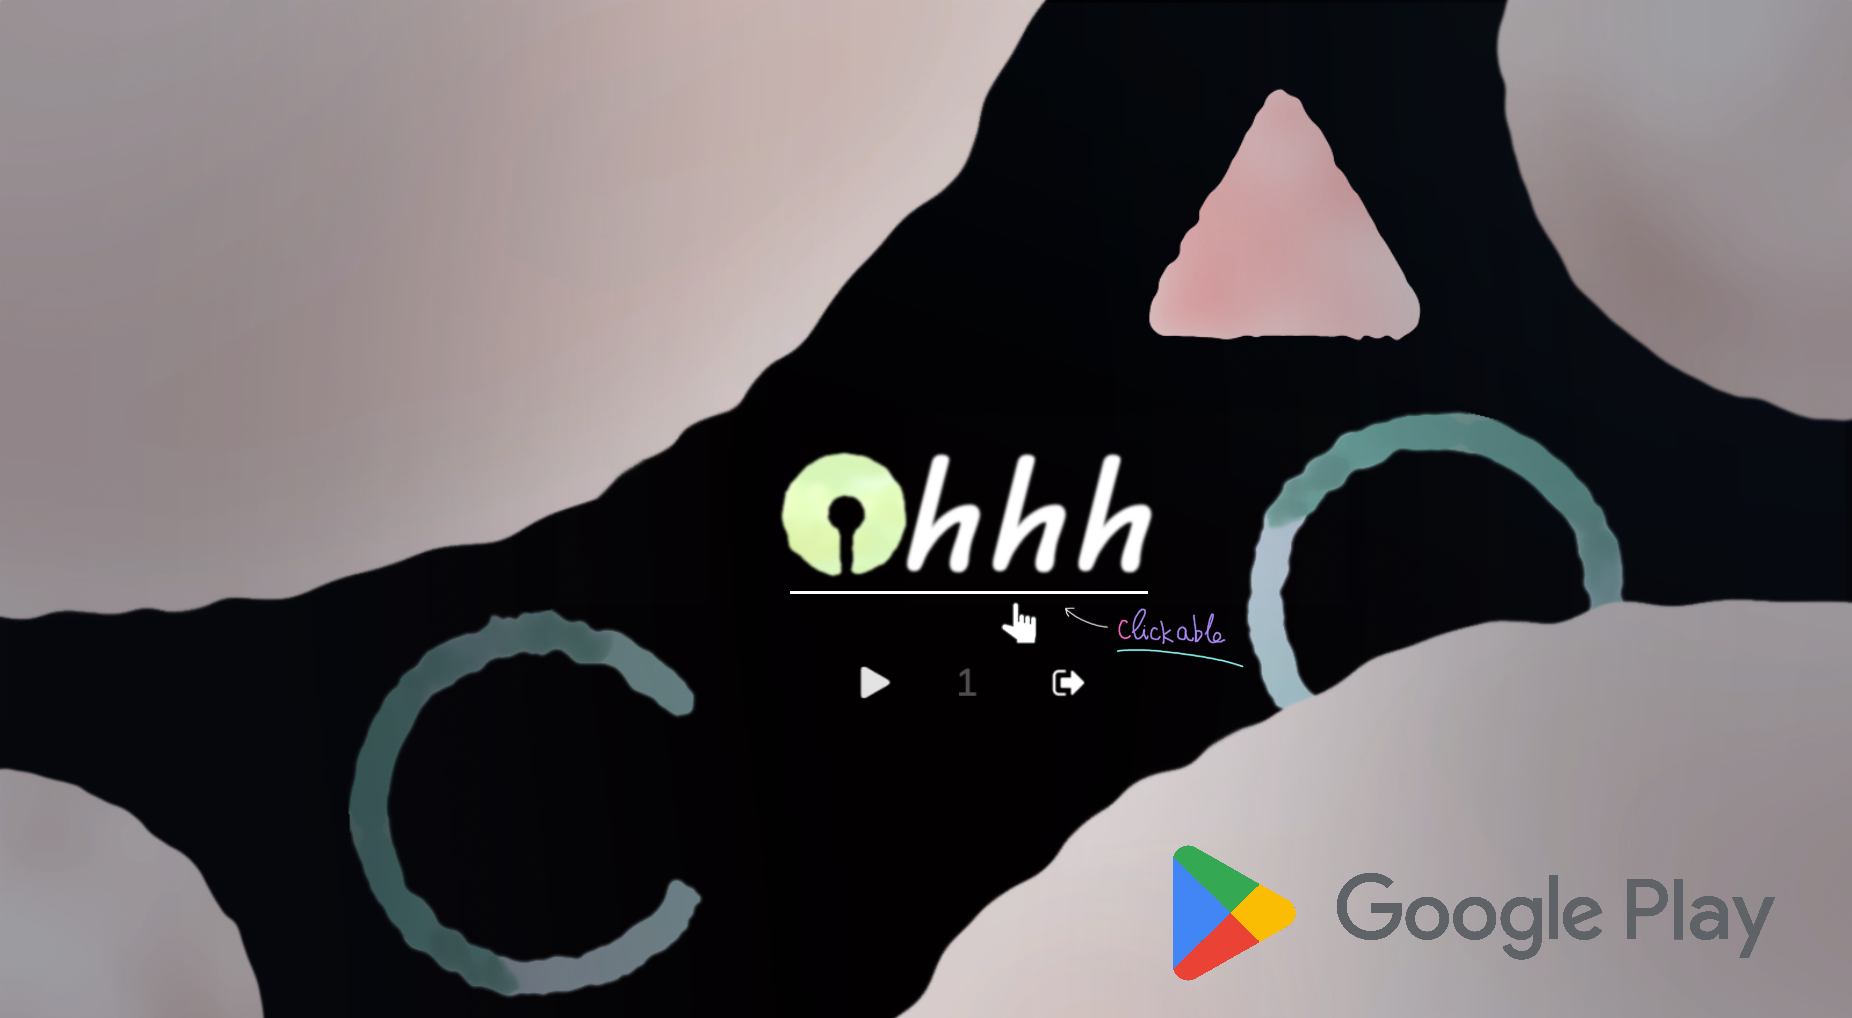
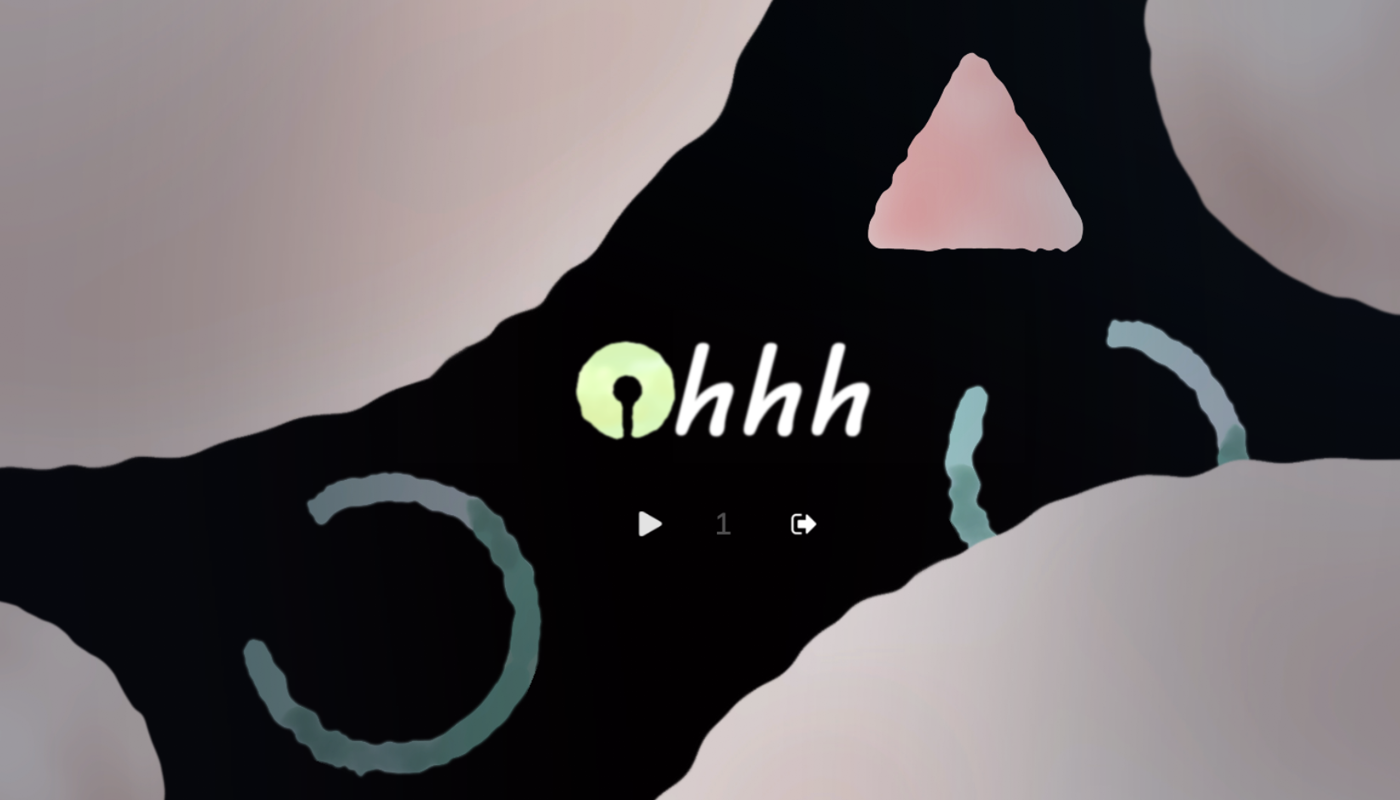
projects & demos page done

diff --git a/source/projects_n_demos/contents.js b/source/projects_n_demos/contents.js
@@ -19,6 +19,13 @@ module.use({
     gdr: "text/projects_n_demos/gdr",
     cook_torrance: "text/projects_n_demos/cook_torrance",
 
+    foot_placement: "text/projects_n_demos/foot_placement",
+    distance_matching: "text/projects_n_demos/distance_matching",
+
+    ohhh: "text/projects_n_demos/ohhh",
+    ohhh2: "text/projects_n_demos/ohhh2",
+    bhop: "text/projects_n_demos/bhop",
+
 });
 
 
@@ -372,6 +379,262 @@ return [
             ),
 
         ),
+
+    ),
+
+
+
+    // AA
+    Common.PageContent()
+    .appendClass("item-center")
+    .appendClass("aa-content")
+    .appendInner(
+
+        Common.Section(
+            [ "| ", "ADVANCED ", "ANIMATION", " |" ],
+        )    
+        .appendClass("item-left")
+        .useLargeWidth()
+        .$(
+            ".paragraph-name",
+            e => e
+            .appendClass("item-left")
+            
+            .applyEffect(
+                Common.TypingEffect('1px', 500, false, false), 
+                10
+            ),
+
+        )
+        .$$(
+            ".paragraph-name > span:nth-child(1), .paragraph-name > span:nth-child(3), .paragraph-name > span:nth-child(4)",
+            e => e
+            .setStyle({
+
+                color: "rgb(100, 100, 100)",
+                fontWeight: "200",
+
+            })
+
+        )
+        .$(
+            ".paragraph-name > span:nth-child(2)",
+            e => e
+            .setStyle({
+
+                color: "rgb(90, 200, 230)",
+                fontWeight: "200",
+
+            })
+
+        )
+        .$(
+            ".paragraph-name > span:nth-child(3)",
+            e => e
+            .setStyle({
+
+                color: "rgb(120, 200, 180)",
+                fontWeight: "200",
+
+            })
+
+        ),
+
+        Common.HR(),
+
+        Common.SubPageContent()
+        .appendInner(
+
+            Common.SubPageContent()
+            .appendClass("two-content-body-reverse")
+            .appendInner(
+    
+                Common.ImageBody(
+                    `${window.origin}/resources/image/demonstrates/foot_placement.png`,
+                    "https://www.youtube.com/watch?v=0jOpu6XEZ58"
+                )
+                .applyEffect(
+                    Common.LightingOnVisible(),
+                    50,
+                ),
+    
+                Common.EnhancedTextBody(
+                    foot_placement
+                )
+                .appendClass("item-left")
+                .applyEffect(
+                    Common.LightingOnVisible(),
+                    50,
+                ),
+    
+            ),
+
+            Common.HR(),
+
+            Common.SubPageContent()
+            .appendClass("two-content-body")
+            .appendInner(
+    
+                Common.EnhancedTextBody(
+                    distance_matching
+                )
+                .appendClass("item-left")
+                .applyEffect(
+                    Common.LightingOnVisible(),
+                    50,
+                ),
+    
+                Common.ImageBody(
+                    `${window.origin}/resources/image/demonstrates/distance_matching.png`,
+                    "https://www.youtube.com/watch?v=FbWhEf3iBuk"
+                )
+                .applyEffect(
+                    Common.LightingOnVisible(),
+                    50,
+                ),
+    
+            ),
+
+        ),
+
+    ),
+
+
+
+    // Games & Demos
+    Common.PageContent()
+    .appendClass("item-center")
+    .appendClass("games-demos-content")
+    .appendInner(
+
+        Common.Section(
+            [ "| ", "GAMES ", "& ", "DEMOS", " |" ],
+        )    
+        .appendClass("item-left")
+        .useLargeWidth()
+        .$(
+            ".paragraph-name",
+            e => e
+            .appendClass("item-left")
+            
+            .applyEffect(
+                Common.TypingEffect('1px', 500, false, false), 
+                10
+            ),
+
+        )
+        .$$(
+            ".paragraph-name > span:nth-child(1), .paragraph-name > span:nth-child(3), .paragraph-name > span:nth-child(5)",
+            e => e
+            .setStyle({
+
+                color: "rgb(100, 100, 100)",
+                fontWeight: "200",
+
+            })
+
+        )
+        .$(
+            ".paragraph-name > span:nth-child(2)",
+            e => e
+            .setStyle({
+
+                color: "rgb(180, 200, 160)",
+                fontWeight: "200",
+
+            })
+
+        )
+        .$(
+            ".paragraph-name > span:nth-child(4)",
+            e => e
+            .setStyle({
+
+                color: "rgb(150, 160, 230)",
+                fontWeight: "200",
+
+            })
+
+        ),
+
+        Common.HR(),
+
+        Common.SubPageContent()
+        .appendInner(
+
+            Common.SubPageContent()
+            .appendClass("two-content-body-reverse")
+            .appendInner(
+    
+                Common.ImageBody(
+                    `${window.origin}/resources/image/demonstrates/ohhh.png`,
+                    "https://play.google.com/store/apps/details?id=com.DNGames.Ohhh_Remake"
+                )
+                .applyEffect(
+                    Common.LightingOnVisible(),
+                    50,
+                ),
+    
+                Common.EnhancedTextBody(
+                    ohhh
+                )
+                .appendClass("item-left")
+                .applyEffect(
+                    Common.LightingOnVisible(),
+                    50,
+                ),
+    
+            ),
+
+            Common.SubPageContent()
+            .appendClass("two-content-body")
+            .appendInner(
+    
+                Common.EnhancedTextBody(
+                    ohhh2
+                )
+                .appendClass("item-left")
+                .applyEffect(
+                    Common.LightingOnVisible(),
+                    50,
+                ),
+    
+                Common.ImageBody(
+                    `${window.origin}/resources/image/demonstrates/ohhh2.png`,
+                    "https://www.youtube.com/watch?v=ROBR3i-oPm0"
+                )
+                .applyEffect(
+                    Common.LightingOnVisible(),
+                    50,
+                ),
+    
+            ),
+
+            Common.SubPageContent()
+            .appendClass("two-content-body-reverse")
+            .appendInner(
+    
+                Common.ImageBody(
+                    `${window.origin}/resources/image/demonstrates/bhop.png`,
+                    "https://www.youtube.com/watch?v=8yr5bNBZKJs"
+                )
+                .applyEffect(
+                    Common.LightingOnVisible(),
+                    50,
+                ),
+    
+                Common.EnhancedTextBody(
+                    bhop
+                )
+                .appendClass("item-left")
+                .applyEffect(
+                    Common.LightingOnVisible(),
+                    50,
+                ),
+    
+            ),
+
+        )
 
     )
 

diff --git a/source/common/style.js b/source/common/style.js
@@ -106,13 +106,27 @@ n0d3s.UI.Style(`
         height: 18px;
         width: 18px;
 
-        transform: translate(0, 3px);
+        transform: translate(0, 4px);
 
     }
 
     .ytb-link {
 
         background-image: url("${window.origin}/resources/image/icon/youtube_fullcolor.png");
+        background-size: cover;
+
+        display: inline-block;
+
+        height: 18px;
+        width: 18px;
+
+        transform: translate(0, 4px);
+
+    }
+
+    .gg-play-link {
+
+        background-image: url("${window.origin}/resources/image/icon/ggplay.png");
         background-size: cover;
 
         display: inline-block;

diff --git a/source/projects_n_demos/style.js b/source/projects_n_demos/style.js
@@ -31,4 +31,16 @@ n0d3s.UI.Style(`
 
 }
 
+.aa-content {
+
+    
+
+}
+
+.games-demos-content {
+
+    background-color: rgba(37, 39, 42, 1);
+
+}
+
 `);
